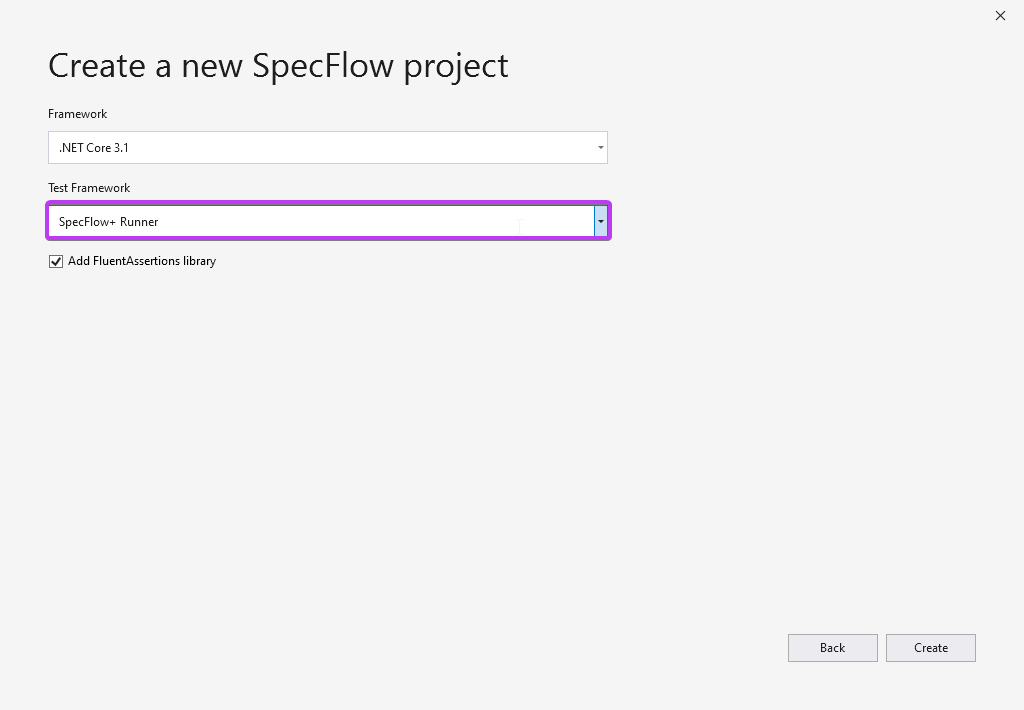
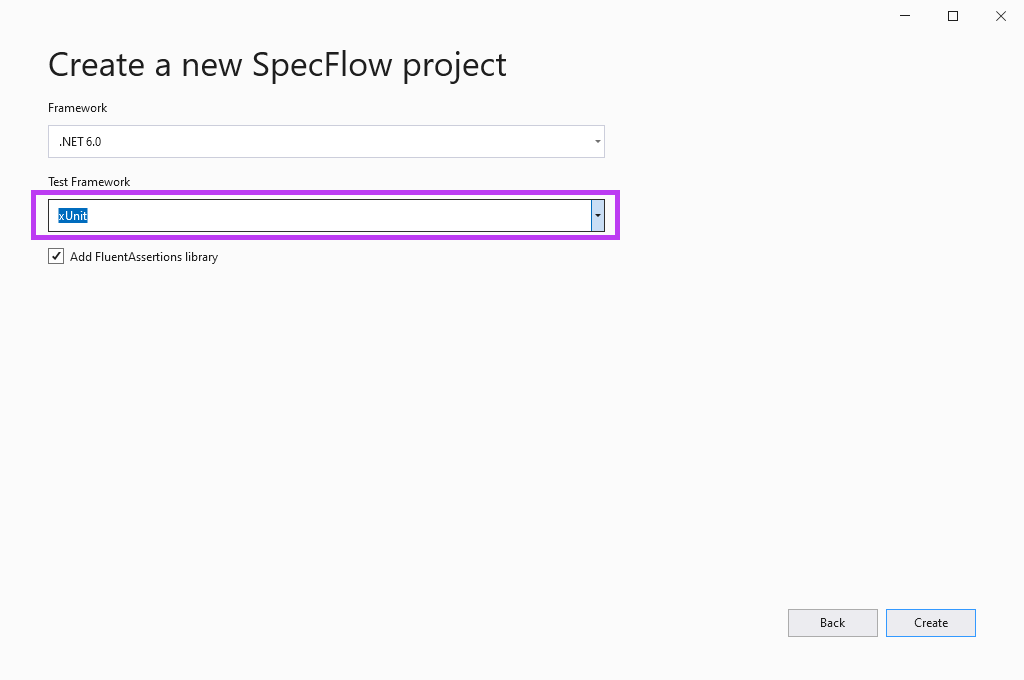
remove SpecFlow+ Runner from Getting Started

diff --git a/GettingStarted/Step3.md b/GettingStarted/Step3.md
@@ -5,7 +5,7 @@ Create SpecFlow project
 
 In this step you'll create a SpecFlow project and add it to the existing calculator solution:
 
-<iframe width="560" height="315" src="https://www.youtube.com/embed/EbrZ3XDbkk8" frameborder="0" allow="accelerometer; autoplay; clipboard-write; encrypted-media; gyroscope; picture-in-picture" allowfullscreen></iframe>
+<!-- <iframe width="560" height="315" src="https://www.youtube.com/embed/EbrZ3XDbkk8" frameborder="0" allow="accelerometer; autoplay; clipboard-write; encrypted-media; gyroscope; picture-in-picture" allowfullscreen></iframe> -->
 
 
 **1-** **Right-click** the solution item "Solution 'SpecFlowCalculator' (1 of 1 project)" under the Solution Explorer and select the "Add ➡ New Project..." menu item.  
@@ -20,7 +20,7 @@ In this step you'll create a SpecFlow project and add it to the existing calcula
 
 ***> Note:** Do **NOT** use any special characters in your project name e.g. (parenthesis)*. This will result in build errors from the code generated by SpecFlow.
 
-**4-** On this next screen you can configure the Test Framework (Runner) you want to use. We suggest using the free SpecFlow+ Runner but you may choose a different Runner if you a have particular preference. Hit ***Create*** once you have made your selection. 
+**4-** On this next screen you can configure the Test Framework (Runner) you want to use. We are using xUnit in this tutorial, but you may choose a different unit test runner if you a have particular preference. Hit ***Create*** once you have made your selection. 
 
 ![Configure SpecFlow Project Settings](../_static/step3/configure_specflow_project_settingsv2.png)  
 

diff --git a/GettingStarted/Step4.md b/GettingStarted/Step4.md
@@ -27,4 +27,4 @@ Now the solution is set up with a class library containing the implementation of
 
 ![Test Explorer Dialog](../_static/step4/test_outcome1.png)
 
-📄 In the next step you will learn how to activate the SpecFlow + Runner on your machine.
+📄 In the next step you will learn how to automate your first scenario.

diff --git a/index.rst b/index.rst
@@ -148,7 +148,6 @@ Welcome to the Step-By-Step Getting Started Guide!
    GettingStarted/Step2.md 
    GettingStarted/Step3.md 
    GettingStarted/Step4.md 
-   GettingStarted/Step5.md 
    GettingStarted/Step6.md 
    GettingStarted/Step7.md 
    GettingStarted/Step8.md 
